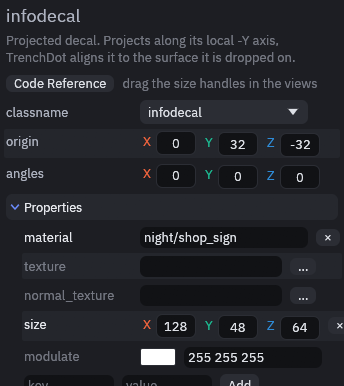
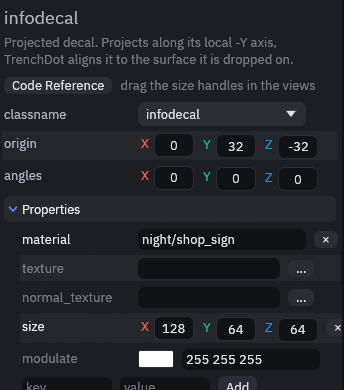
Retake the projected decal shots at the in-game size
The box and Inspector shots showed 128 48 64 while the in-game shot shows 128 64 64.

diff --git a/docs/editor/projected-decals.md b/docs/editor/projected-decals.md
@@ -59,7 +59,7 @@ setting it up is installing the pack.
     In the Inspector, type a material name into `material`, the same name a face uses, like `base/stain`. Its color,
     normal map and glow carry over.
 
-    ![The Inspector with the infodecal selected, night/shop_sign in material and 128 48 64 in size](../assets/projected-decals/decal-inspector-material.png)
+    ![The Inspector with the infodecal selected, night/shop_sign in material and 128 64 64 in size](../assets/projected-decals/decal-inspector-material.png)
 
 3. Size it
 
